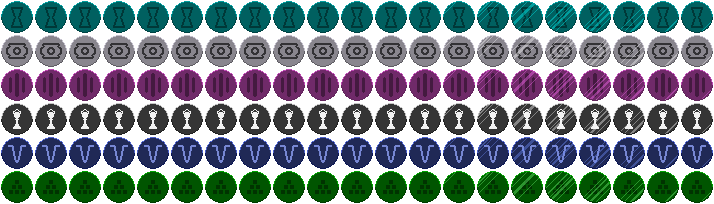
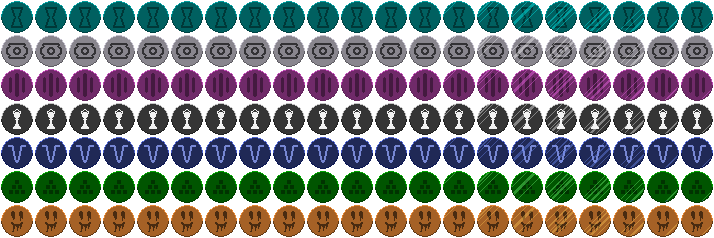
added The Prosopagnosia boss blind

diff --git a/README.md b/README.md
@@ -1,6 +1,6 @@
 # Azzy's Silly Trinkets
 
-Azzy's Silly Trinkets (AST) is a Balatro modification which adds silly miscallaeneous content to the game. Mostly serves as a playground for me to experiment and get more acquainted with Balatro modding. Can't guarantee the content is balanced or won't crash your game, but I try my best to keep it robust!
+**Azzy's Silly Trinkets** (AST) is a Balatro modification which adds silly miscallaeneous content to the game. Mostly serves as a playground for me to experiment and get more acquainted with Balatro modding. Can't guarantee the content is balanced or won't crash your game, but I try my best to keep it robust!
 
 ## Installation
 
@@ -11,18 +11,21 @@ Azzy's Silly Trinkets (AST) is a Balatro modification which adds silly miscallae
 
 ## Changelog
 
-### Update 1.0.2
+### Update 1.1.0
+* Added **The Prosopagnosia** boss blind
+
+### Patch 1.0.2
 * Improved visuals on The Razor boss blind
 
-### Update 1.0.1
-* Improved The Insecurity
-* Fixed issues relating to The Insecurity and The Clock not properly storing some data about them when reloading the saved game (cursed).
+### Patch 1.0.1
+* Improved **The Insecurity** boss blind
+* Fixed issues relating to **The Insecurity** and **The Clock** not properly storing some data about them when reloading the saved game (cursed).
 
 ### Update 1.0.0
 * Added 6 new boss blinds:
-    * The Clock
-    * The Razor
-    * The Insecurity
-    * The Gambit
-    * The Pit
-    * The Construct
+    * **The Clock**
+    * **The Razor**
+    * **The Insecurity**
+    * **The Gambit**
+    * **The Pit**
+    * **The Construct**
